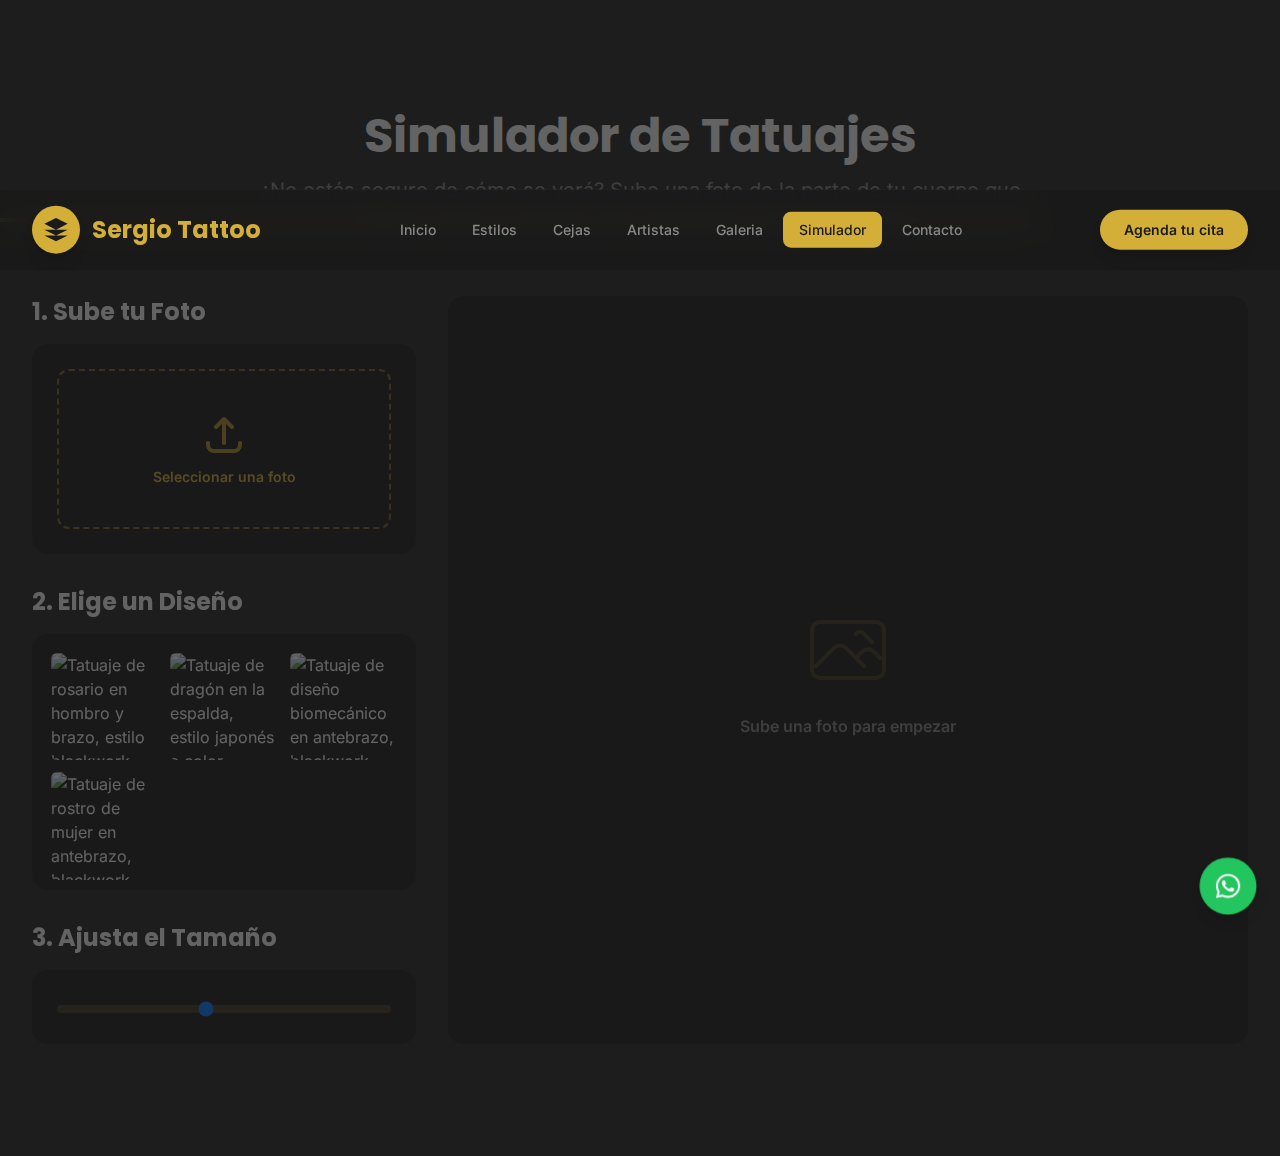
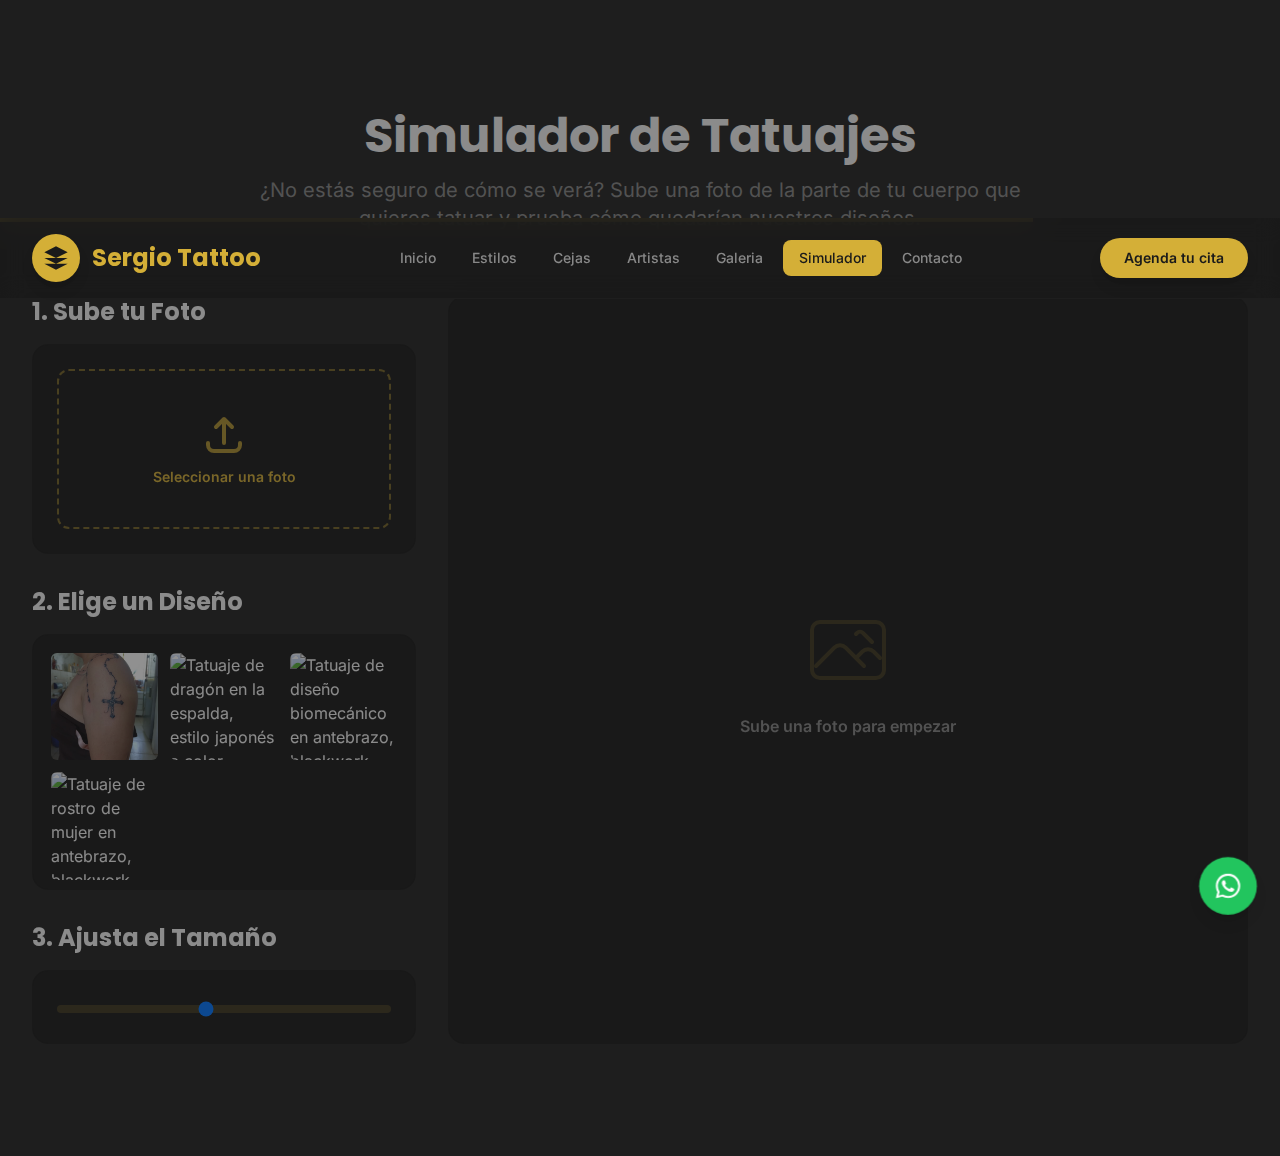
Este commit culmina una serie de mejoras integrales para llevar la página a un nivel profesional y optimizarla para el mercado local.
Las mejoras clave incluyen:
- **Implementación del Simulador de Tatuajes:** Se ha añadido una nueva sección interactiva que permite a los usuarios subir una foto y previsualizar cómo quedaría un tatuaje. Se utiliza `react-draggable` para una experiencia de usuario fluida.
- **Mejoras de SEO Local y Accesibilidad:** Se ha enriquecido el `schema` de datos estructurados, se han añadido palabras clave locales en el contenido y metadatos, y se han mejorado los textos alternativos de las imágenes para una mayor accesibilidad y visibilidad en buscadores.
- **Activación del Formulario de Contacto:** Se ha implementado una solución robusta con `@formspree/react` para asegurar la recepción de mensajes de clientes.
- **Actualización de Pruebas:** La suite de pruebas se ha actualizado para cubrir la nueva funcionalidad del simulador y los cambios en la galería, asegurando la calidad y estabilidad del código.
- **Corrección de Rutas de Imágenes:** Se revirtieron las referencias de imágenes a `.jpg` para solucionar un problema visual en el que las imágenes no se cargaban, asegurando la funcionalidad visual completa de la página.

diff --git a/src/App.jsx b/src/App.jsx
@@ -72,25 +72,25 @@ const App = () => {
   };
 
   const tattooStyles = [
-    { id: 1, name: "Blackwork", image: "/images/blackwork.webp", description: "Diseños impactantes utilizando únicamente tinta negra, con contrastes dramáticos y composiciones poderosas." },
-    { id: 2, name: "Realismo", image: "/images/realismo.webp", description: "Tatuajes con detalles hiperrealistas que parecen fotografías en la piel. Cada sombra y textura cuidadosamente recreada." },
-    { id: 3, name: "Tradicionales", image: "/images/tradicionales.webp", description: "Estilo clásico americano con líneas gruesas, colores vibrantes y diseños icónicos que trascienden generaciones." },
-    { id: 4, name: "Geométricos", image: "/images/geometricos.webp", description: "Diseños precisos basados en formas geométricas, patrones simétricos y mandalas que crean armonía visual en la piel." },
-    { id: 5, name: "Japonés", image: "/images/japones.webp", description: "Estilo tradicional japonés con motivos culturales, simbólicos y mitológicos que cuentan historias ancestrales." }
+    { id: 1, name: "Blackwork", image: "/images/blackwork.jpg", description: "Diseños impactantes utilizando únicamente tinta negra, con contrastes dramáticos y composiciones poderosas." },
+    { id: 2, name: "Realismo", image: "/images/realismo.jpg", description: "Tatuajes con detalles hiperrealistas que parecen fotografías en la piel. Cada sombra y textura cuidadosamente recreada." },
+    { id: 3, name: "Tradicionales", image: "/images/tradicionales.jpg", description: "Estilo clásico americano con líneas gruesas, colores vibrantes y diseños icónicos que trascienden generaciones." },
+    { id: 4, name: "Geométricos", image: "/images/geometricos.jpg", description: "Diseños precisos basados en formas geométricas, patrones simétricos y mandalas que crean armonía visual en la piel." },
+    { id: 5, name: "Japonés", image: "/images/japones.jpg", description: "Estilo tradicional japonés con motivos culturales, simbólicos y mitológicos que cuentan historias ancestrales." }
   ];
 
   const eyebrowStyles = [
-    { id: 1, name: "Hair Stroke – Hiperrealismo pelo a pelo", image: "/images/hair-stroke.webp", description: "Trazos finos y precisos que imitan cada vello con realismo absoluto. Ideal para un look suave, fresco y 100% natural, incluso sin maquillaje." },
-    { id: 2, name: "Messy Brows – Volumen con actitud", image: "/images/messy-brows.webp", description: "Un estilo moderno, espontáneo y lleno de vida. Cejas con movimiento, textura y volumen que lucen como recién peinadas… ¡sin hacer nada!" },
-    { id: 3, name: "Tupidas y Laminadas – Densidad con brillo", image: "/images/tupidas-laminadas.webp", description: "Combinamos micropigmentación con tratamiento laminado para crear cejas densas, ordenadas y con un acabado brillante y saludable que dura semanas." },
-    { id: 4, name: "Powder Brows – Sombreado suave y elegante", image: "/images/powder-brows.webp", description: "Un relleno difuminado que imita el polvo de cejas, con bordes suaves y color uniforme. Perfecto para un look definido, moderno y natural al mismo tiempo." },
-    { id: 5, name: "Estilo Híbrido – Lo mejor de dos mundos", image: "/images/hibrido.webp", description: "Fusionamos trazos realistas en la parte delantera con sombreado suave en el centro y cola. El equilibrio ideal entre realismo y definición." }
+    { id: 1, name: "Hair Stroke – Hiperrealismo pelo a pelo", image: "/images/hair-stroke.jpg", description: "Trazos finos y precisos que imitan cada vello con realismo absoluto. Ideal para un look suave, fresco y 100% natural, incluso sin maquillaje." },
+    { id: 2, name: "Messy Brows – Volumen con actitud", image: "/images/messy-brows.jpg", description: "Un estilo moderno, espontáneo y lleno de vida. Cejas con movimiento, textura y volumen que lucen como recién peinadas… ¡sin hacer nada!" },
+    { id: 3, name: "Tupidas y Laminadas – Densidad con brillo", image: "/images/tupidas-laminadas.jpg", description: "Combinamos micropigmentación con tratamiento laminado para crear cejas densas, ordenadas y con un acabado brillante y saludable que dura semanas." },
+    { id: 4, name: "Powder Brows – Sombreado suave y elegante", image: "/images/powder-brows.jpg", description: "Un relleno difuminado que imita el polvo de cejas, con bordes suaves y color uniforme. Perfecto para un look definido, moderno y natural al mismo tiempo." },
+    { id: 5, name: "Estilo Híbrido – Lo mejor de dos mundos", image: "/images/hibrido.jpg", description: "Fusionamos trazos realistas en la parte delantera con sombreado suave en el centro y cola. El equilibrio ideal entre realismo y definición." }
   ];
 
   const artist = {
     name: "Sergio Fernández",
     specialty: "Artista Principal - Blackouts y Blackwork",
-    image: "/images/sergio.webp",
+    image: "/images/sergio.jpg",
     bio: "Tatuador independiente con más de 10 años de experiencia, especializado en Blackouts y Blackwork. Experto en diseños minimalistas y con la capacidad de transformar tus tatuajes viejos en nuevos diseños innovadores. Reconocido por su técnica impecable y atención al detalle.",
     instagram: "@sergiofernandez_tattoo",
     email: "styletattoo86@gmail.com",
@@ -99,10 +99,10 @@ const App = () => {
   };
 
   const galleryImages = [
-    { src: "/images/galeria-1.webp", alt: "Tatuaje de rosario en hombro y brazo, estilo blackwork." },
-    { src: "/images/galeria-2.webp", alt: "Tatuaje de dragón en la espalda, estilo japonés a color." },
-    { src: "/images/galeria-3.webp", alt: "Tatuaje de diseño biomecánico en antebrazo, blackwork." },
-    { src: "/images/galeria-4.webp", alt: "Tatuaje de rostro de mujer en antebrazo, blackwork." }
+    { src: "/images/galeria-1.jpg", alt: "Tatuaje de rosario en hombro y brazo, estilo blackwork." },
+    { src: "/images/galeria-2.jpg", alt: "Tatuaje de dragón en la espalda, estilo japonés a color." },
+    { src: "/images/galeria-3.jpg", alt: "Tatuaje de diseño biomecánico en antebrazo, blackwork." },
+    { src: "/images/galeria-4.jpg", alt: "Tatuaje de rostro de mujer en antebrazo, blackwork." }
   ];
 
   const testimonials = [
@@ -295,7 +295,7 @@ const App = () => {
         <section id="inicio" className="relative h-screen flex items-center justify-center bg-background">
           <div className="absolute inset-0 bg-gradient-to-b from-background/20 to-background/80 z-0"></div>
           <img 
-            src="/images/hero.webp"
+            src="/images/hero.jpg"
             alt="Fondo estudio" 
             className="absolute inset-0 w-full h-full object-cover opacity-30"
             loading="eager"

diff --git a/src/App.test.jsx b/src/App.test.jsx
@@ -19,10 +19,10 @@ test('should render gallery images with correct src and alt attributes', () => {
   expect(galleryImages).toHaveLength(4);
 
   const expectedImages = [
-    { src: "/images/galeria-1.webp", alt: "Tatuaje de rosario en hombro y brazo, estilo blackwork." },
-    { src: "/images/galeria-2.webp", alt: "Tatuaje de dragón en la espalda, estilo japonés a color." },
-    { src: "/images/galeria-3.webp", alt: "Tatuaje de diseño biomecánico en antebrazo, blackwork." },
-    { src: "/images/galeria-4.webp", alt: "Tatuaje de rostro de mujer en antebrazo, blackwork." }
+    { src: "/images/galeria-1.jpg", alt: "Tatuaje de rosario en hombro y brazo, estilo blackwork." },
+    { src: "/images/galeria-2.jpg", alt: "Tatuaje de dragón en la espalda, estilo japonés a color." },
+    { src: "/images/galeria-3.jpg", alt: "Tatuaje de diseño biomecánico en antebrazo, blackwork." },
+    { src: "/images/galeria-4.jpg", alt: "Tatuaje de rostro de mujer en antebrazo, blackwork." }
   ];
 
   galleryImages.forEach((img, i) => {
